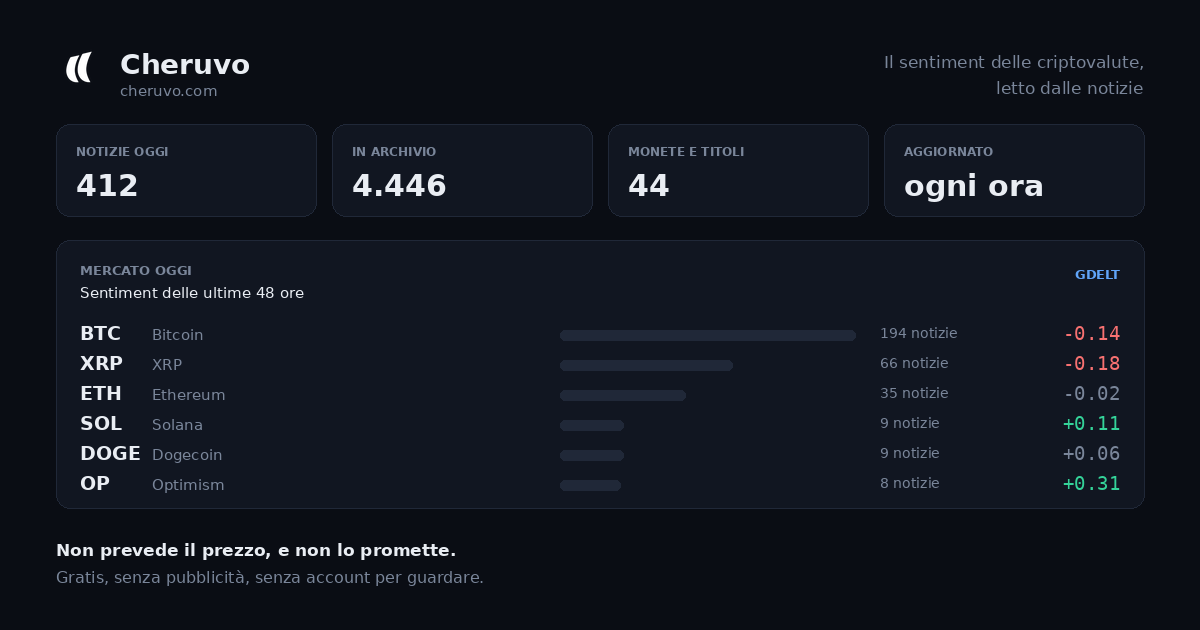
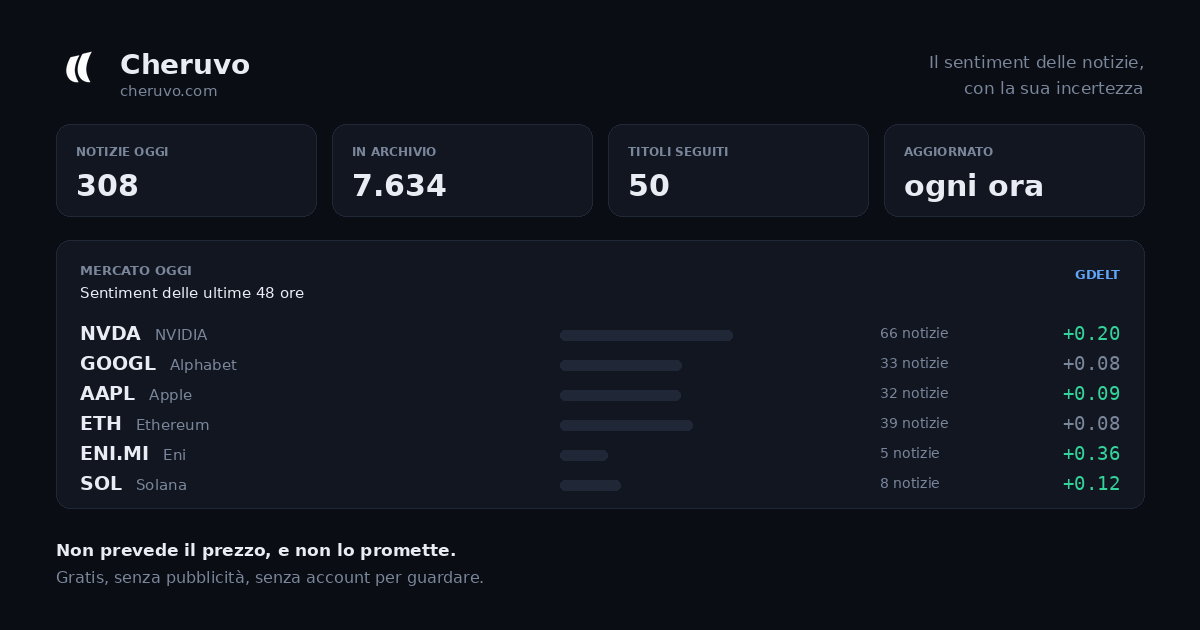
ifo

diff --git a/docs/index.html b/docs/index.html
@@ -3,11 +3,11 @@
 <head>
   <meta charset="UTF-8"/>
   <meta name="viewport" content="width=device-width, initial-scale=1.0"/>
-  <title>Cheruvo — Sentiment AI delle criptovalute | Bitcoin, Ethereum e altre 18</title>
-  <meta name="description" content="Sentiment delle criptovalute con l'AI: Cheruvo legge le notizie su Bitcoin, Ethereum, Solana e altre 17 monete e le trasforma in un numero, accanto all'indice di paura e avidità del mercato. Grafico che si muove 24 ore su 24. Gratis, senza carta."/>
+  <title>Cheruvo — Il sentiment delle notizie, con la sua incertezza | Azioni e criptovalute</title>
+  <meta name="description" content="Cheruvo legge le notizie su azioni e criptovalute e le trasforma in un numero, sempre accompagnato dalla sua incertezza. Quando i dati non bastano per dire qualcosa, lo scrive invece di inventarsi una cifra. Piazza Affari inclusa. Gratis, senza carta."/>
   <link rel="canonical" href="https://cheruvo.com/"/>
-  <meta property="og:title" content="Cheruvo — Sentiment AI delle criptovalute"/>
-  <meta property="og:description" content="L'AI legge le notizie su Bitcoin, Ethereum e altre 18 monete e ti dice che aria tira. Accanto all'indice di paura e avidità del mercato. Gratis."/>
+  <meta property="og:title" content="Cheruvo — Il sentiment delle notizie, con la sua incertezza"/>
+  <meta property="og:description" content="Legge le notizie su azioni e criptovalute e ti dice che aria tira. Ogni numero arriva con la sua incertezza, e quando i dati non bastano la pagina lo scrive. Gratis."/>
   <meta property="og:url" content="https://cheruvo.com"/>
   <meta property="og:type" content="website"/>
   <meta property="og:image" content="https://cheruvo.com/og-image.png"/>
@@ -148,9 +148,9 @@ footer a:hover{color:var(--txt)}
 
   <div class="hero">
     <div>
-      <div class="lbl" style="margin-bottom:15px" data-i18n="heroKicker">Sentiment analysis · 20 criptovalute · 24 ore su 24</div>
-      <h1 data-i18n-html="heroTitle">Le crypto non dormono.<br/><em>Nemmeno noi.</em></h1>
-      <p class="sub" data-i18n="heroSub">Cheruvo legge le notizie su Bitcoin, Ethereum e altre 18 monete e le trasforma in un numero leggibile a colpo d'occhio. Accanto ci mette l'indice di paura e avidità del mercato: due misure indipendenti dello stesso umore, e quando divergono è lì che diventa interessante.</p>
+      <div class="lbl" style="margin-bottom:15px" data-i18n="heroKicker">Sentiment analysis · azioni e criptovalute</div>
+      <h1 data-i18n-html="heroTitle">Quando i dati non bastano,<br/><em>Cheruvo te lo dice.</em></h1>
+      <p class="sub" data-i18n="heroSub">Legge le notizie su azioni e criptovalute e le trasforma in un numero. Ma quel numero arriva sempre con la sua incertezza accanto, e quando non ce n'è abbastanza per dire qualcosa la pagina scrive quanti giorni mancano invece di inventarsi una cifra. Piazza Affari compresa.</p>
       <div class="cta">
         <a class="btn p" href="https://app.cheruvo.com" data-i18n="heroCta">Apri Cheruvo — è gratis</a>
         <a class="btn" href="#prodotto" data-i18n="heroCta2">Guarda com'è fatto</a>
@@ -193,7 +193,7 @@ footer a:hover{color:var(--txt)}
   </section>
 
   <section id="prodotto">
-    <h2 data-i18n="pTitle">Cosa vedi quando apri una moneta</h2>
+    <h2 data-i18n="pTitle">Cosa vedi quando apri un titolo</h2>
     <p class="lead" data-i18n="pLead">Niente muri di testo. Ogni schermata risponde a una domanda sola, con i numeri in evidenza e la fonte sempre a portata di clic.</p>
     <div class="cards">
       <div class="card">
@@ -204,7 +204,7 @@ footer a:hover{color:var(--txt)}
       <div class="card">
         <div class="tag">02 · CORRELAZIONE</div>
         <h3 data-i18n="c2t">La domanda scomoda</h3>
-        <p data-i18n="c2d">Il sentiment anticipa davvero il prezzo di questa moneta? Cheruvo calcola il legame e te lo dice, anche quando la risposta è no.</p>
+        <p data-i18n="c2d">Il sentiment anticipa davvero il prezzo di questo titolo? Cheruvo calcola il legame, lo mostra con la sua banda di incertezza, e sotto i venti giorni di dati si rifiuta di mostrarlo.</p>
       </div>
       <div class="card">
         <div class="tag">03 · BORSA ITALIANA</div>
@@ -221,7 +221,7 @@ footer a:hover{color:var(--txt)}
       <div class="step"><div class="k">01</div><h4 data-i18n="s1t">Raccolta</h4><p data-i18n="s1d">Le notizie arrivano da fonti con licenza aperta, senza scraping selvaggio.</p></div>
       <div class="step"><div class="k">02</div><h4 data-i18n="s2t">Lettura AI</h4><p data-i18n="s2d">Un modello linguistico giudica ogni notizia dal punto di vista di chi investe.</p></div>
       <div class="step"><div class="k">03</div><h4 data-i18n="s3t">Aggregazione</h4><p data-i18n="s3d">I punteggi diventano una serie giornaliera, confrontabile con il prezzo.</p></div>
-      <div class="step"><div class="k">04</div><h4 data-i18n="s4t">Verifica</h4><p data-i18n="s4d">I giorni senza notizie restano vuoti: mai uno zero inventato al posto di un dato.</p></div>
+      <div class="step"><div class="k">04</div><h4 data-i18n="s4t">Incertezza</h4><p data-i18n="s4d">Ogni numero esce con la sua banda. I giorni senza notizie restano vuoti, mai uno zero inventato, e le riprese della stessa notizia contano una volta sola.</p></div>
     </div>
   </section>
 
@@ -254,7 +254,7 @@ footer a:hover{color:var(--txt)}
 
   <section class="faq">
     <h2 data-i18n="qTitle">Domande</h2>
-    <details><summary data-i18n="q1">Il sentiment prevede il prezzo?</summary><p data-i18n="a1">No, e Cheruvo non lo promette. È un termometro di come le notizie parlano di una moneta. Il pannello correlazione ti mostra, dati alla mano, quanto quel termometro sia stato utile per quella moneta specifica.</p></details>
+    <details><summary data-i18n="q1">Il sentiment prevede il prezzo?</summary><p data-i18n="a1">No, e Cheruvo non lo promette. È un termometro di come le notizie parlano di un titolo. Il pannello correlazione ti mostra, dati alla mano, quanto quel termometro sia stato utile per quel titolo specifico, e quando i giorni non bastano te lo dice invece di mostrarti un numero.</p></details>
     <details><summary data-i18n="q2">Da dove arrivano le notizie?</summary><p data-i18n="a2">Da fonti con licenza che ne consente il riuso. Vengono mostrati titolo, testata e link all'articolo originale: il testo integrale resta dell'editore.</p></details>
     <details><summary data-i18n="q3">Serve la carta di credito?</summary><p data-i18n="a3">No. Il piano base è gratuito e non chiede metodi di pagamento.</p></details>
     <details><summary data-i18n="q4">È consulenza finanziaria?</summary><p data-i18n="a4">No. Cheruvo fornisce dati e strumenti di lettura, non raccomandazioni di investimento. Le decisioni restano tue.</p></details>
@@ -280,14 +280,13 @@ const T = {
   it: {},   /* l'italiano è già nell'HTML */
   en: {
     navProduct:'Product', navMethod:'Method', navPricing:'Pricing', navGuide:'Guide', navOpen:'Open Cheruvo',
-    heroKicker:'Sentiment analysis · US and European stocks',
-    heroTitle:'Crypto never sleeps.<br/><em>Neither do we.</em>',
-    heroSub:'Cheruvo reads the news on Bitcoin, Ethereum and 18 more coins and turns it into a number you can read at a glance. Next to it sits the market fear and greed index: two independent readings of the same mood, and when they diverge is when it gets interesting.',
+    heroKicker:'Sentiment analysis · stocks and crypto',
+    heroTitle:'When the data is not enough,<br/><em>Cheruvo says so.</em>',
+    heroSub:'It reads the news on stocks and crypto and turns it into a number. But that number always comes with its uncertainty next to it, and when there is not enough to say anything the page writes how many days are missing instead of making a figure up. Milan exchange included.',
     heroCta:'Open Cheruvo — it’s free', heroCta2:'See how it looks',
     heroNote:'No card required', heroNote2:'news articles already analysed',
     boardTitle:'Market today · last 48 hours',
-    fngTitle:'Market fear & greed',
-    fngTitle:'Paura e avidità del mercato', boardFoot:'real data · updated several times a day',
+    fngTitle:'Market fear & greed', boardFoot:'real data · updated several times a day',
     loading:'Loading market data…',
     stNews:'News analysed', stTickers:'Stocks covered', stRank:'Ranked today', stCost:'Cost to start',
     pTitle:'What you see when you open a stock',
@@ -295,7 +294,7 @@ const T = {
     c1t:'A number, not an opinion',
     c1d:'Every article gets a score from −1 to +1 from an investor’s point of view. The average tells you the mood, right now.',
     c2t:'The uncomfortable question',
-    c2d:'Does sentiment actually lead the price of this stock? Cheruvo computes the link and tells you, even when the answer is no.',
+    c2d:'Does sentiment actually lead the price of this stock? Cheruvo computes the link, shows it with its uncertainty band, and below twenty days of data refuses to show it at all.',
     c3t:'Where others don’t look',
     c3d:'Eni, Enel, Ferrari, UniCredit, STM. English-language tools ignore the Milan exchange: here it’s home turf.',
     mTitle:'How the number is built',
@@ -303,7 +302,7 @@ const T = {
     s1t:'Collection', s1d:'News comes from sources with open licences, no aggressive scraping.',
     s2t:'AI reading', s2d:'A language model judges each headline from an investor’s perspective.',
     s3t:'Aggregation', s3d:'Scores become a daily series you can compare against price.',
-    s4t:'Verification', s4d:'Days without news stay empty: never a made-up zero in place of data.',
+    s4t:'Uncertainty', s4d:'Every number comes with its band. Days without news stay empty, never a made-up zero, and reprints of the same story count once.',
     prTitle:'Pricing', prLead:'Everything open, no paid accounts. Cheruvo is being built and needs people who actually use it, not subscribers.',
     prNota:'One day there will be a paid plan. I will say so first, and whoever uses Cheruvo now will not lose what they have.',
     planFree:'Everything included', planFreeSub:'no card required', planFreeCta:'Open Cheruvo',
@@ -314,7 +313,7 @@ const T = {
     p3:'Email alerts on the stocks you follow', p4:'Full correlation panel',
     qTitle:'Questions',
     q1:'Does sentiment predict the price?',
-    a1:'No, and Cheruvo doesn’t claim it does. It’s a thermometer of how the news talks about a stock. The correlation panel shows you, with real data, how useful that thermometer has been for that specific stock.',
+    a1:'No, and Cheruvo doesn’t claim it does. It’s a thermometer of how the news talks about a stock. The correlation panel shows you, with real data, how useful that thermometer has been for that specific stock, and when there aren’t enough days it tells you instead of showing you a number.',
     q2:'Where does the news come from?',
     a2:'From sources whose licence allows reuse. You see the headline, the outlet and a link to the original article: the full text stays with the publisher.',
     q3:'Do I need a credit card?', a3:'No. The free plan is free and asks for no payment method.',

diff --git a/docs/genera_og_image.py b/docs/genera_og_image.py
@@ -60,12 +60,13 @@ except FileNotFoundError:
 d.text((x_testo, 48), "Cheruvo", font=f(28, True), fill=TESTO)
 d.text((x_testo, 82), "cheruvo.com", font=f(15), fill=FIOCO)
 
-d.text((L - 56, 52), "Il sentiment delle criptovalute,", font=f(17), fill=FIOCO, anchor="ra")
-d.text((L - 56, 78), "letto dalle notizie", font=f(17), fill=FIOCO, anchor="ra")
+d.text((L - 56, 52), "Il sentiment delle notizie,", font=f(17), fill=FIOCO, anchor="ra")
+d.text((L - 56, 78), "con la sua incertezza", font=f(17), fill=FIOCO, anchor="ra")
 
 # ── quattro numeri veri ──────────────────────────────────────────────────
-METRICHE = [("NOTIZIE OGGI", "412"), ("IN ARCHIVIO", "4.446"),
-            ("MONETE E TITOLI", "44"), ("AGGIORNATO", "ogni ora")]
+# Numeri veri al 15 agosto 2026, letti da /api/market/stats.
+METRICHE = [("NOTIZIE OGGI", "308"), ("IN ARCHIVIO", "7.634"),
+            ("TITOLI SEGUITI", "50"), ("AGGIORNATO", "ogni ora")]
 x = 56
 larg = (L - 112 - 3 * 16) // 4
 for et, val in METRICHE:
@@ -75,9 +76,9 @@ for et, val in METRICHE:
     x += larg + 16
 
 # ── la classifica, coi numeri di adesso ──────────────────────────────────
-RIGHE = [("BTC", "Bitcoin", 194, -0.14), ("XRP", "XRP", 66, -0.18),
-         ("ETH", "Ethereum", 35, -0.02), ("SOL", "Solana", 9, +0.11),
-         ("DOGE", "Dogecoin", 9, +0.06), ("OP", "Optimism", 8, +0.31)]
+RIGHE = [("NVDA", "NVIDIA", 66, +0.20), ("GOOGL", "Alphabet", 33, +0.08),
+         ("AAPL", "Apple", 32, +0.09), ("ETH", "Ethereum", 39, +0.08),
+         ("ENI.MI", "Eni", 5, +0.36), ("SOL", "Solana", 8, +0.12)]
 
 pannello(56, 240, L - 112, 268)
 d.text((80, 262), "MERCATO OGGI", font=f(13, True), fill=FIOCO)
@@ -88,7 +89,12 @@ y = 322
 for sig, nome, news, s in RIGHE:
     col = VERDE if s > 0.08 else (ROSSO if s < -0.08 else FIOCO)
     d.text((80, y), sig, font=f(19, True), fill=TESTO)
-    d.text((80 + 72, y + 4), nome, font=f(15), fill=FIOCO)
+    # Il nome della societa' parte DOPO la sigla, misurata di volta in volta.
+    # Con uno scarto fisso di 72 pixel andava bene per BTC ed ETH, ma con le
+    # azioni aperte arrivano sigle da cinque e sei caratteri e "GOOGL" finiva
+    # sopra "Alphabet".
+    largh_sig = d.textlength(sig, font=f(19, True))
+    d.text((80 + largh_sig + 14, y + 4), nome, font=f(15), fill=FIOCO)
     # barra proporzionale al numero di notizie
     largh = int(max(0.08, (min(news, 200) / 200) ** 0.5) * 300)
     d.rounded_rectangle([560, y + 8, 560 + largh, y + 18], radius=5, fill=BORDO)
